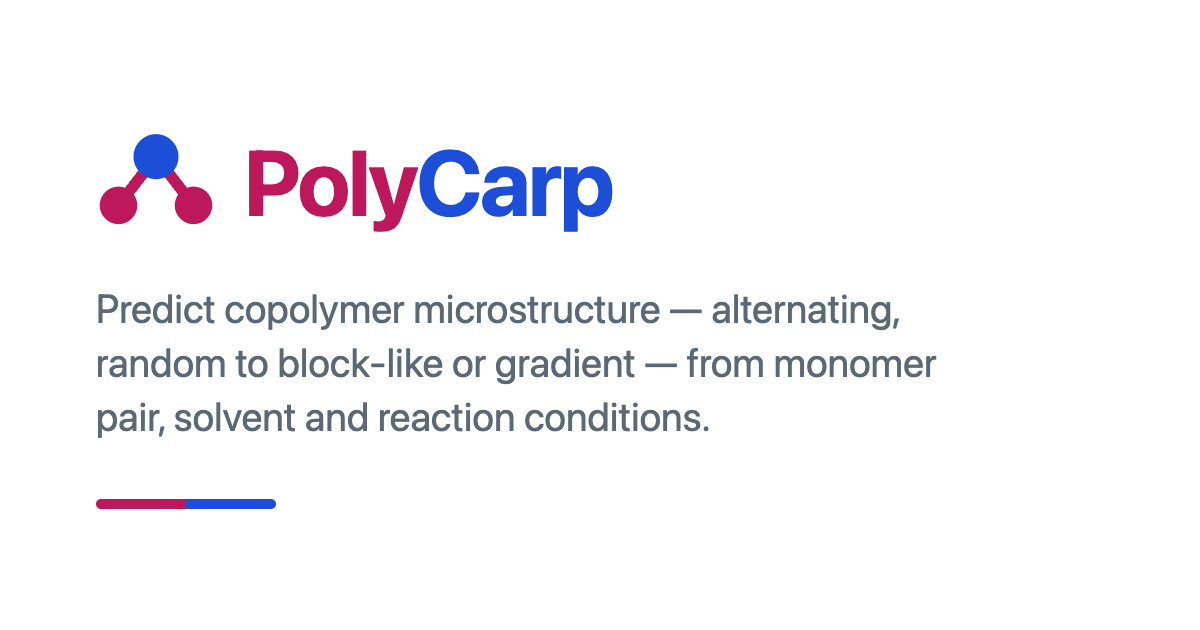
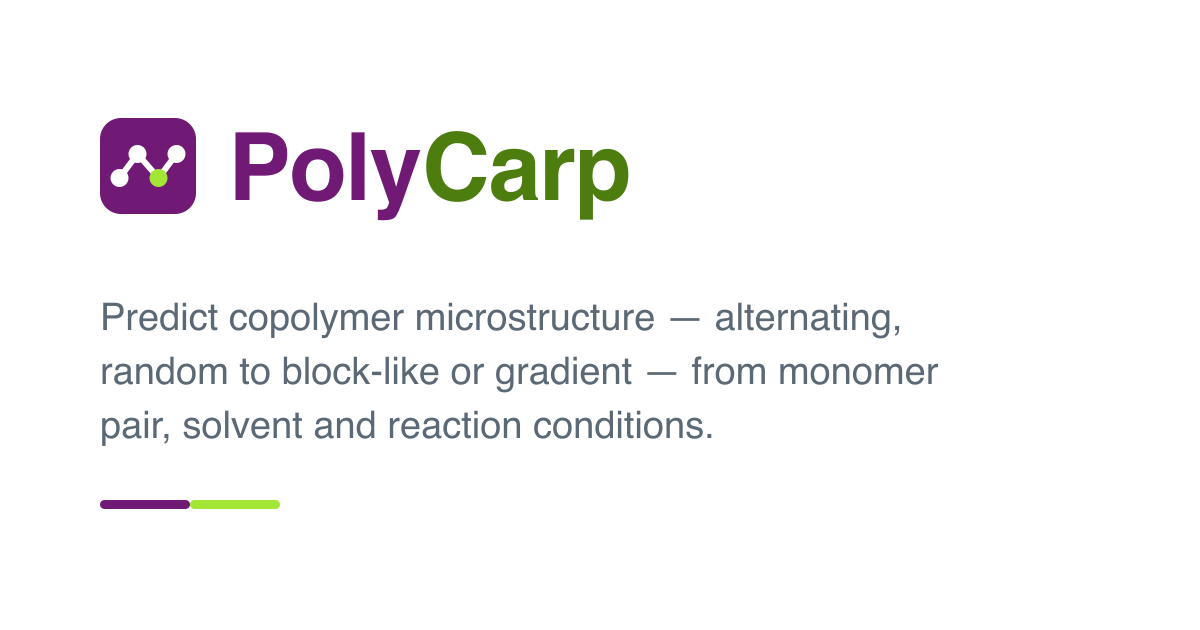
fix: retune the pair to grape and lime
The old pink was derepflow's brand.

Changed region(s): [[0.0617, 0.4524, 0.8017, 0.6937], [0.0617, 0.181, 0.5242, 0.3921], [0.0617, 0.7841, 0.2467, 0.8143]]

diff --git a/src/styles/app.css b/src/styles/app.css
@@ -6,8 +6,11 @@
 
 :root {
   /* The two colours this site owns: the two comonomers of a chain. */
-  --brand: #be185d;
-  --brand-alt: #1d4ed8;
+  --brand: #701a75;
+  --brand-alt: #a3e635;
+  /* The lime carries the mark at 16px but sits at 1.7:1 on white, so the
+     wordmark's second half takes this darkened 5.0:1 form instead. */
+  --brand-alt-text: #4d7c0f;
   --accent: var(--brand);
 
   /* Model class colours: these say what a class *is*, so they keep their own
